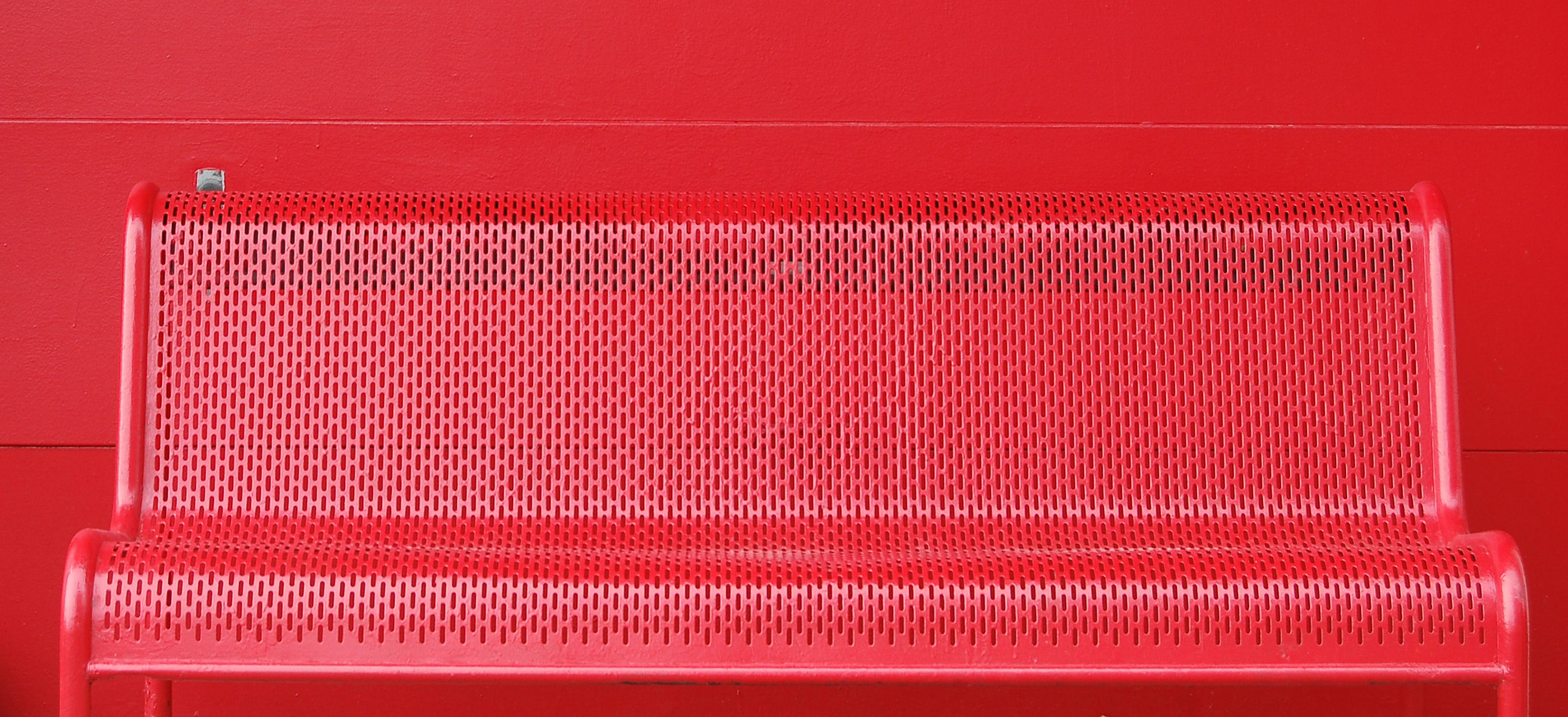
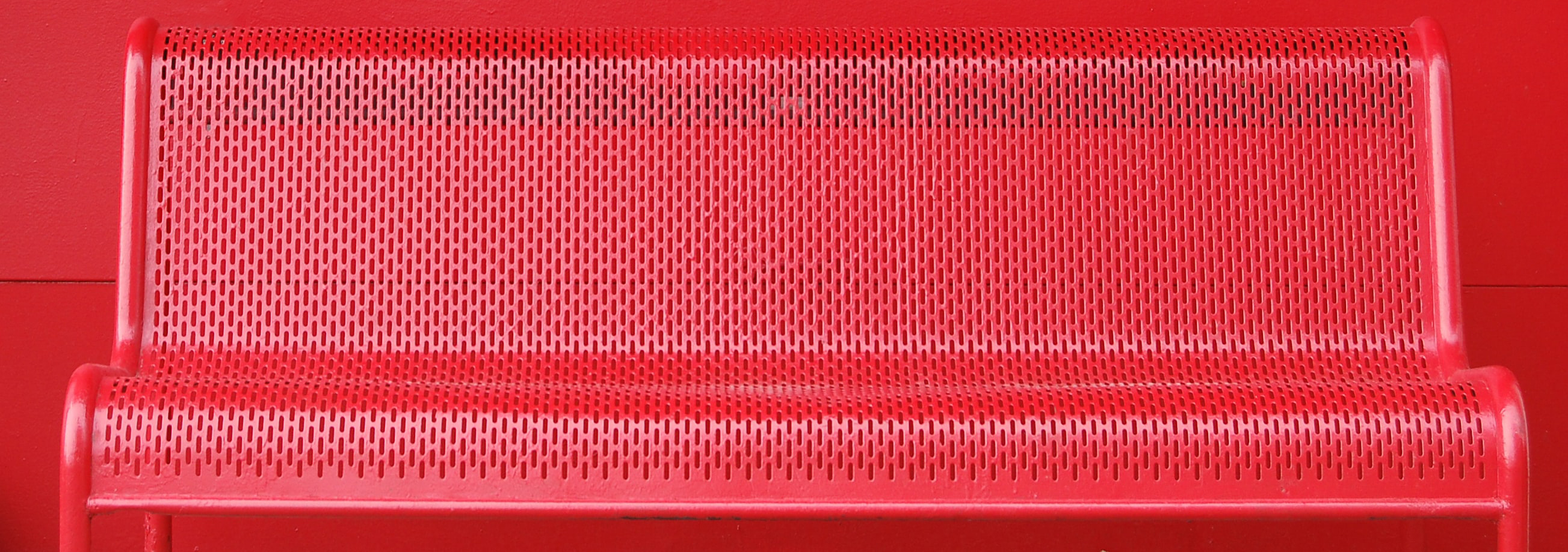
update projects bench background image

diff --git a/docs/css/main.css b/docs/css/main.css
@@ -357,7 +357,6 @@ main section.approach {
   background-color: var(--turquoise);
 }
 main section.projects {
-  padding-top: 19rem;
   background-image: url("../img/bg/projects-bench.jpg");
 }
 main section.projects h1, main section.projects p {

diff --git a/src/sass/main.scss b/src/sass/main.scss
@@ -355,7 +355,6 @@ main {
   }
 
   section.projects {
-    padding-top: 19rem;
     background-image : url('../img/bg/projects-bench.jpg');
     h1, p {
       padding: 0;
